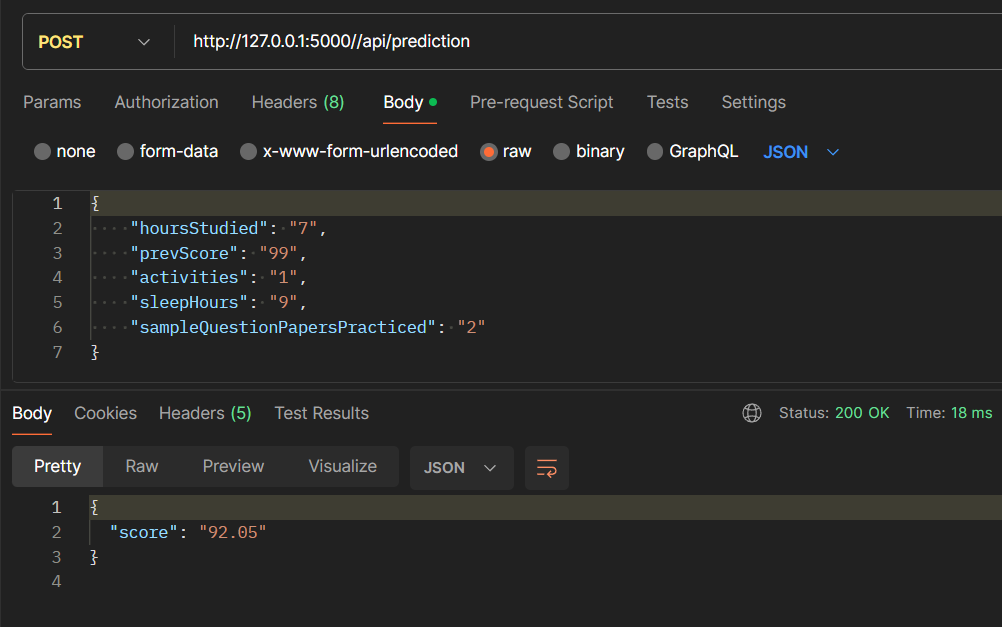
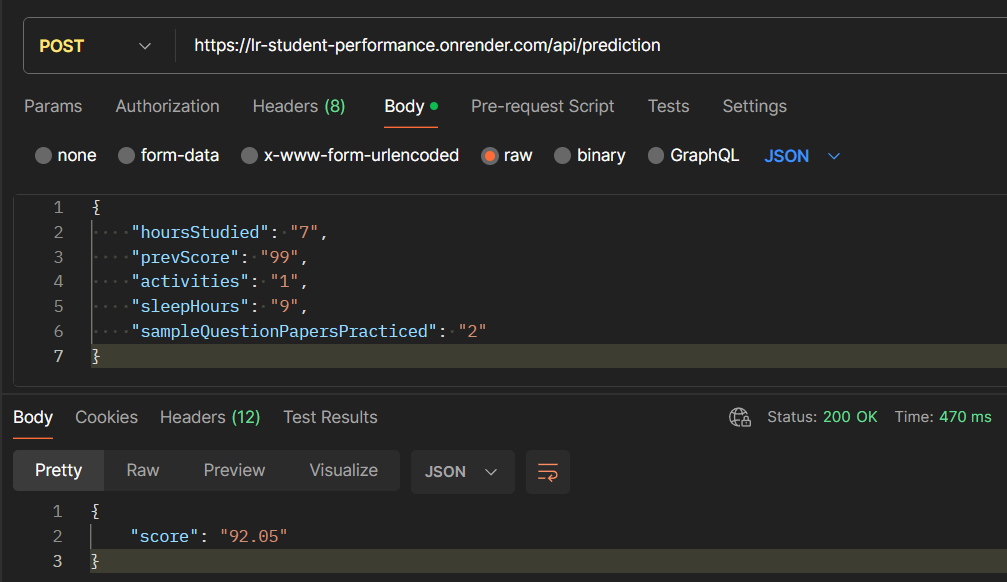
Update README

diff --git a/README.md b/README.md
@@ -11,7 +11,7 @@ Variables in dataset:
 
 <hr>
 
-Web App
+Web App - [link here ](https://lr-student-performance.onrender.com/)
 
 ![photo](Screenshots/prediction%20page.png)
 
